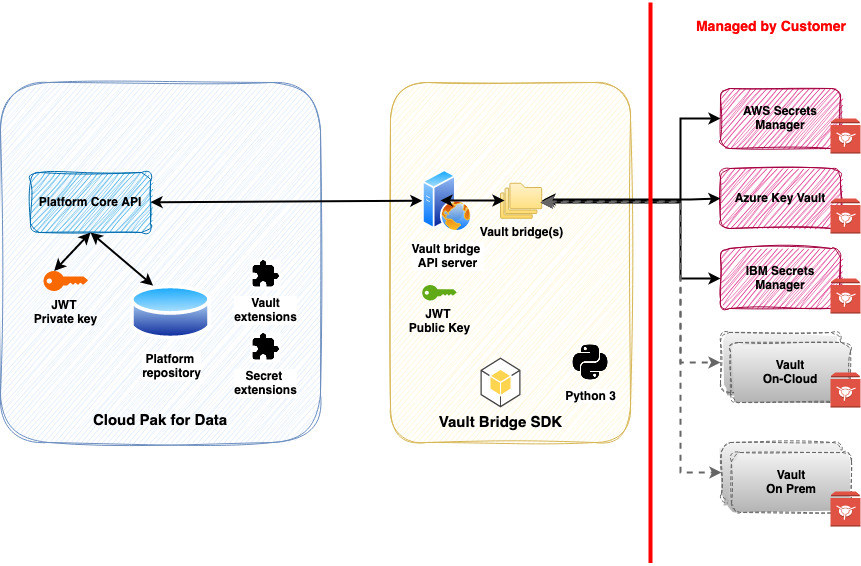
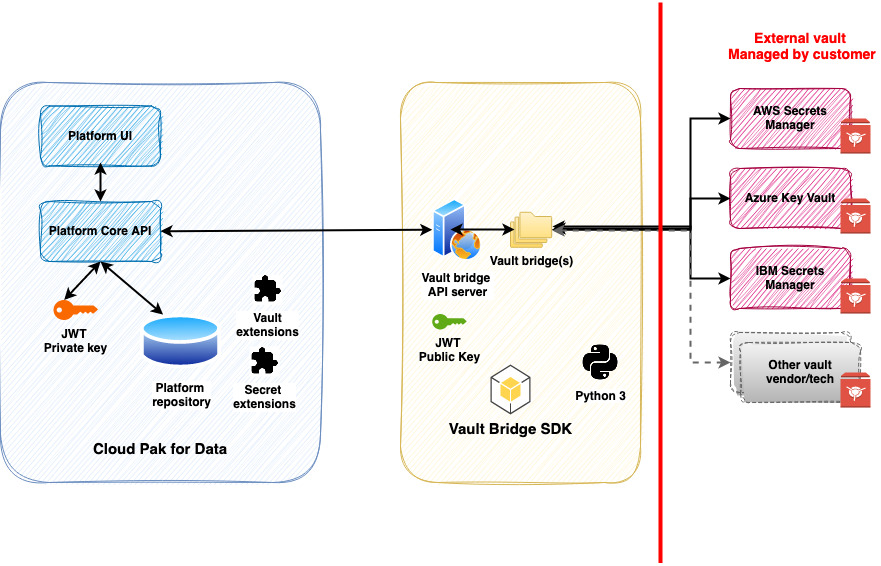
Docs updates - SDK component update and  installation options (#49)

diff --git a/docs/01_installation/bridge_installation.md b/docs/01_installation/bridge_installation.md
@@ -2,13 +2,72 @@
 
 ## [1] Overview
 
-### [1.1] Installation options
-1. Standalone bridge (Running outside Cloud Pak cluster)
-2. Kubernetes (K8s) deployment (Running in the same Cloud Pak cluster)
+There are 2 vault bridge deployment options.
 
-#### [1.1.1] Stand-alone bridge
+### [1.1] Kubernetes (K8s) deployment (Running in the same Cloud Pak cluster)
+
+With this option, the vault bridge runs on the same Cloud Pak cluster and leverages the Kubernetes high availability and load balancer functionality.
+
+![image](/docs/images/InstallOptionK8sDeploy.jpg)
+
+### [1.2] Standalone bridge (Running outside Cloud Pak cluster)
+
+With this option, the vault bridge runs on separate servers. For high availability, you must configure multiple servers and a load balancer.
+
+This option is used for providing isolation from Cloud Pak components. The vault bridge runs on the servers that are managed by the security group.
+
+![image](/docs/images/InstallOptionStandalone.jpg)
+
+## [2] Installation steps
+
+### [2.1] Kubernetes (K8s) deployment
+1. Download the scripts from [kubernetes scripts](/scripts/install_kubernetes) 
+2. Execute the following scripts. Pause after each step and verify successful completion.
+3. Use the bridge URL `https://ibm-zen-vault-bridge-svc` when you configure vaults in Cloud Pak for Data.
+
+#### [2.1.1] Set project
+```
+export ZEN_NAMESPACE=zen
+```    
+#### [2.1.2] Create vault bridge TLS certificate
+```
+oc -n $ZEN_NAMESPACE create -f 01_vault_bridge_tls_certificates.yaml
+```
+Check certificate status
+```
+oc -n $ZEN_NAMESPACE wait certificate.cert-manager.io/ibm-zen-vault-bridge-server --for=condition=Ready --timeout=30s
+```
+#### [2.1.3] Create vault bridge Kubernetes deployment
+```
+oc -n $ZEN_NAMESPACE create -f 02_vault_bridge_deployment.yaml
+```
+Check status
+```
+oc -n $ZEN_NAMESPACE  wait pods -l component=ibm-zen-vault-bridge --for=condition=Ready --timeout=30s
+```
+#### [2.1.4] Create vault bridge Kubernetes service
+```
+oc -n $ZEN_NAMESPACE create -f 03_vault_bridge_service.yaml
+```
+Check status
+```
+oc -n $ZEN_NAMESPACE  get service -l component=ibm-zen-vault-bridge
+```
+#### [2.1.5] Vault bridge health check validation
+```
+oc -n zen exec -t $(oc get po -l component=ibm-nginx --no-headers -o custom-columns=:metadata.name | awk 'FNR <=1') -c ibm-nginx-container -- bash -c "curl -ks https://ibm-zen-vault-bridge-svc/v2/health"
+```
+Expected response
+```
+{"status": "OK"}
+```
+
+
+### [2.2] Standalone bridge
 1. Download and clone this repository
 2. Generate and configure TLS key and certificate
 3. Install JWT public key
 4. Run bridge server
+
+
 

diff --git a/README.md b/README.md
@@ -68,11 +68,15 @@ The following diagram shows vault bridge SDK components. Some of the components 
 
 #### [2.2.1] Platform components
 
-1. Platform Core API
+1. Platform user interface
+
+    Users with an appropriate vault role can manage vaults and secrets in the Cloud Pak for Data web client. The `vault bridge SDK UI framework` dynamically generates a user interface for a vault bridge by using the information in the vault bridge extension.
+
+2. Platform Core API
 
     The Platform Core API receives a GET /v2/secrets/{secret-urn} request from Cloud Pak for Data consumers (such as services, the web client user interface, and so on). Using a secret urn (also known as secret identifier) it routes that request to the appropriate vault bridge. In the case of the bridge created using `vault bridge SDK` it delegates a request to the bridge server.
 
-2. Extensions
+3. Extensions
 
     The vault and secret extensions dynamically plugs in the vault bridge into the `Cloud Pak for Data Platform`. These extensions define characteristics of the bridge using the following information. The UI framework dynamically generates a user interface by using the information in the extension.  
     1. Vault extension
@@ -82,7 +86,7 @@ The following diagram shows vault bridge SDK components. Some of the components 
     2. Secret extension
         - Secret identifier
 
-3. JWT private key
+4. JWT private key
 
     The vault bridge SDK is secured using JSON Web Token(JWT). The `Platform Core API` generates JWT using a private key and attaches JWT to every request sent to the vault bridge server.
 
@@ -111,4 +115,5 @@ The following diagram shows vault bridge SDK components. Some of the components 
 
 1. [Bridge installation](/docs/01_installation/bridge_installation.md)
 2. [Configuring vault integration](/docs/02_configuration/configure_vault_integration.md)
+3. [Cloud Pak for Data API documentation](https://cloud.ibm.com/apidocs/cloud-pak-data/cloud-pak-data-4.8.0#managing-secrets-and-vaults)
 
